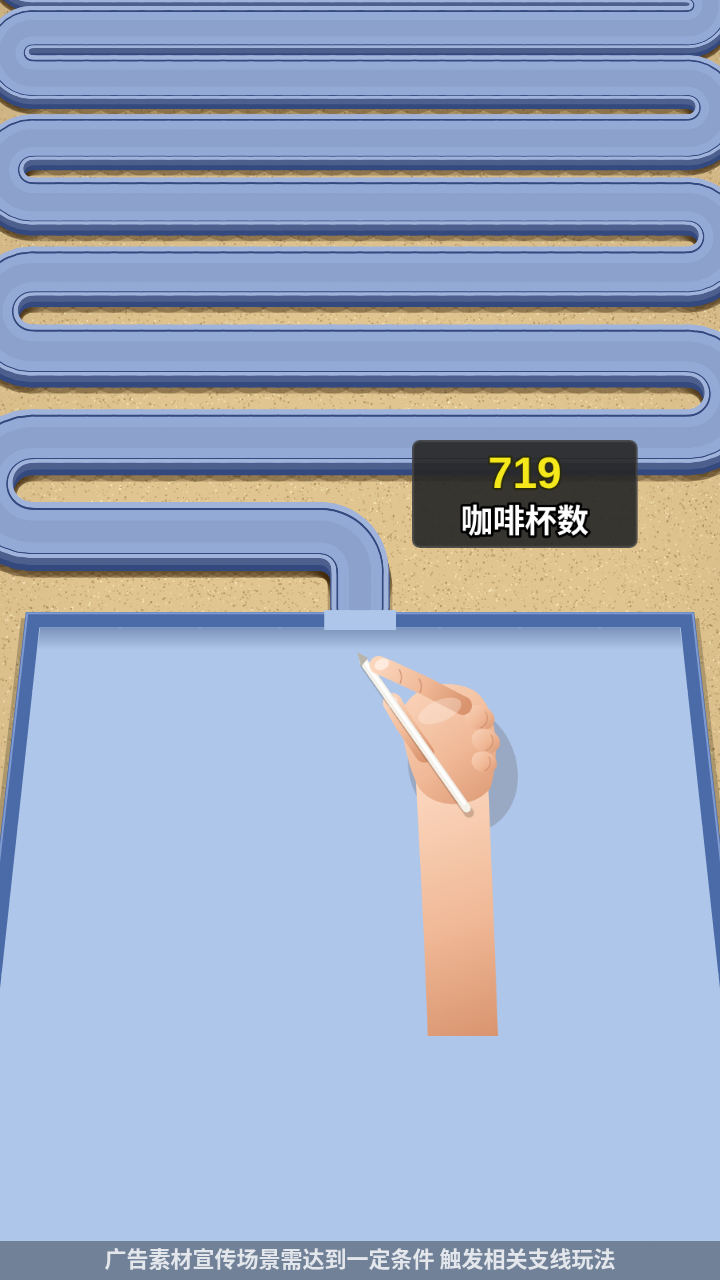
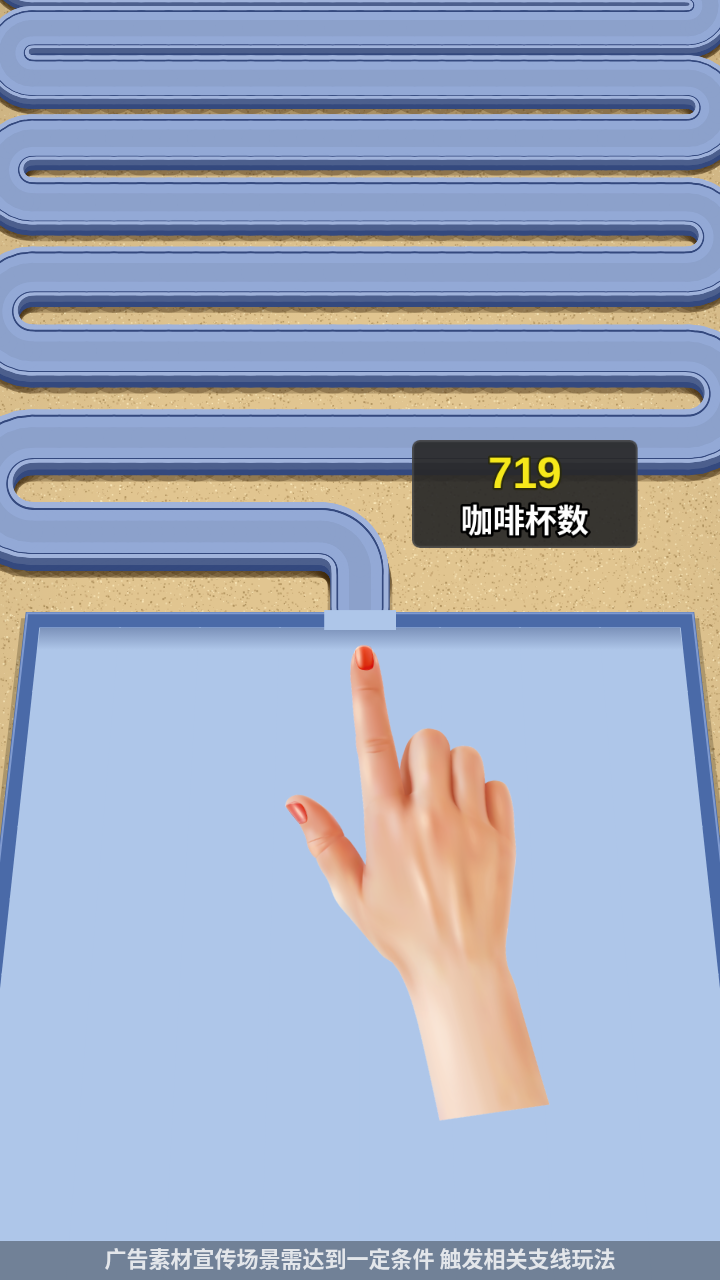
v1.1.0: progress, all tests pass

Changed region(s): [[0.3972, 0.5, 0.7639, 0.875]]

diff --git a/ref/PROGRESS.md b/ref/PROGRESS.md
@@ -16,5 +16,10 @@
 - (a) ✅ 杯子尺寸/间距 + 传送带车道 y 与透视曲线按参考第 0 帧测量（render.js LANES / beltScale；设置 v2 migrate：cupSize 34、cupGap 42、beltW 54、传送带配色）
 - (b) ✅ 拖动：level.js slideAxis（连续碰撞）/ reachCells / applyPark / isGoal / solvePlan（需要时暂存，迭代加深 1..3 次暂存）；main.js dragBegin/dragMove/dragEnd（拐角吸附 dragAssist，松手吸附格子，拖进出口送出，颜色不符抖动），设置 inputMode（both/drag/tap）、autoMode（drag/tap）；自动通关用 autoDrag（笔尖按住托盘沿路径拖动）；test:drag
 - (c) ✅ 纸箱：箱体 + 四片翻盖连续翻折（render.js boxBodySprite/boxFlapSprite，main.js boxAt；侧盖先合、前后盖后合），升起 boxLift、放大 boxScale；Nice 在纸箱飞走时出现（niceAt）+ 金色星星粒子（sparkCount/sparkSize，每颗星是独立图层 → AE/3D 自动关键帧）；设置 v3
-- (d) 🟡 three.js 页面渲染已接入（src/three/scene3d.js：create3D/setup/render；main.js draw() 合成：2D 沙地 → 3D → 2D 覆盖层；设置组“3D 渲染”render3d/cam3d*/light3d*/shadow3d*/mat3d*）。待做：对比参考调相机/配色、纸箱 3D 视觉核对、性能
-- 下一步：(d) 收尾 three.js 页面渲染 → (e) 导出 + 全部测试 → (f) v1.1 推送
+- (d) ✅ three.js 页面实时 3D（src/three/scene3d.js；杯子 InstancedMesh；托盘挖孔+半球凹槽；纸箱四片铰链翻盖；阴影）；设置组“3D 渲染”
+- (e) ✅ 全部测试通过：test:logic（含暂存）/ npm test（67 托盘）/ test:shape / test:norec / test:drag / test:ae（PSNR≈33–37）/ test:3d（BLENDER PASS）。盒子无 GPU（SwiftShader 3D≈2fps），长流程测试切 2D（R3D=1 保持 3D），npm test 先校验 3D 场景
+- 手指：按用户要求改为麻将工具同款默认手指 PNG（src/default_hand.js，handRotation/handFlip/锚点与麻将一致，settings v5 migrate；可上传覆盖）
+- (f) v1.1.0 推送 + Pages 验证
+## 剩余差距
+- AE 导出仍用 2D 精灵 PNG（非 3D 渲染图）；3D 导出（glTF/FBX）沿用原导出模型 + 纸箱翻盖/星星为关键帧四边形，尚未复用页面 three.js 模型（可用 GLTFExporter 接入）
+- 3D 相机/传送带颜色仅近似参考；纸箱 2D 精灵的翻盖为投影缩放近似
